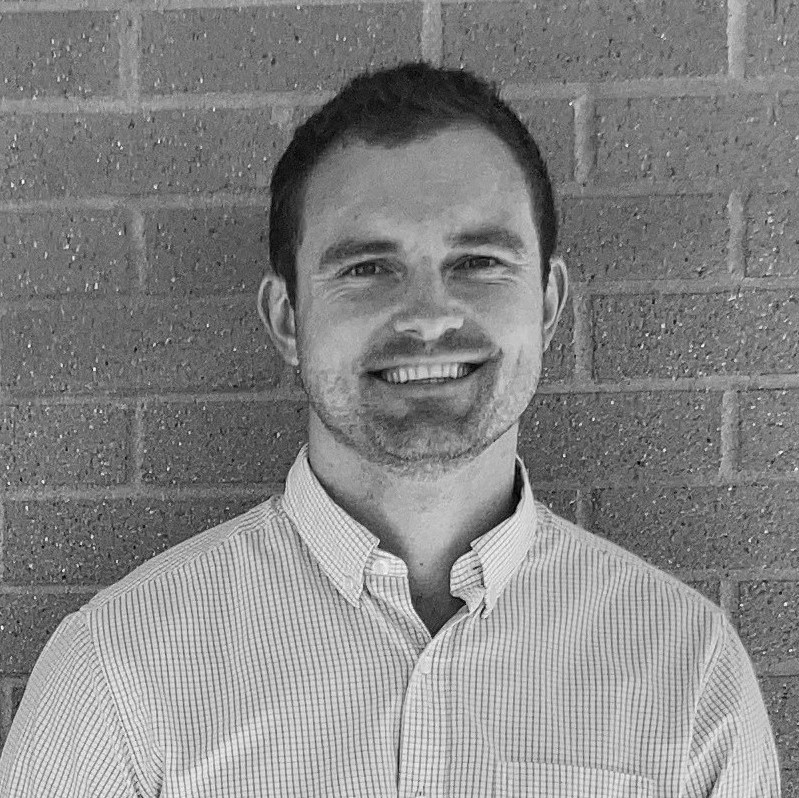
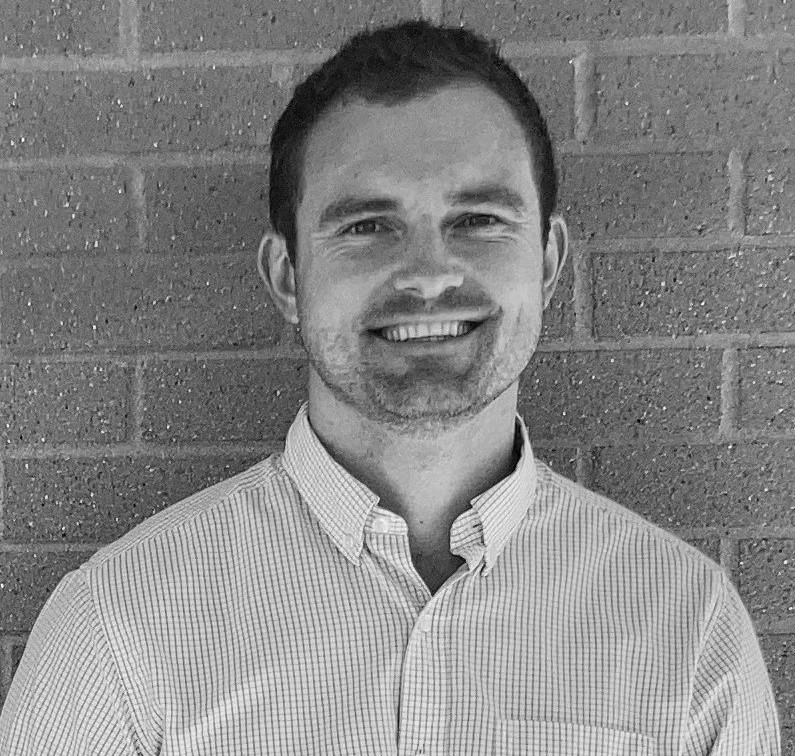
edits for linkedin thumbnail

diff --git a/src/Components/NavigationBarMobile.js b/src/Components/NavigationBarMobile.js
@@ -72,12 +72,14 @@ export default function ButtonAppBar() {
     <div className={classes.root}>
       <AppBar position="fixed" className={classes.appBar}>
         <Toolbar>
+        <a href="#Home" className={classes.navLink}>
         <Avatar
                 alt="Avatar"
                 src="/images/avatar.jpg"
                 className={classes.avatar}
               />
-        {["Home", "About", "Skills", "Projects"].map((text) => (
+        </a>
+        {["About", "Education", "Skills", "Projects"].map((text) => (
           <a href={"#" + text} className={classes.navLink}>
             <Button className={classes.listItem} key={text}>
               <ListItemText primary={text} className={classes.listItemText} />

diff --git a/public/index.html b/public/index.html
@@ -4,9 +4,9 @@
     <meta charset="utf-8" />
     <meta name="viewport" content="width=device-width, initial-scale=1" />
     <meta name="theme-color" content="#000000" />
-    <meta
-      name="description"
-    />
+<meta name="title" property="og:title" content="My Portfolio" />
+<meta property="og:type" content="_" />
+<meta name="image" property="og:image" content="https://live.staticflickr.com/65535/51285994553_4942c6d3b6_b.jpg" />
     <!--
       manifest.json provides metadata used when your web app is installed on a
       user's mobile device or desktop. See https://developers.google.com/web/fundamentals/web-app-manifest/

diff --git a/src/Components/NavigationBar.js b/src/Components/NavigationBar.js
@@ -80,7 +80,7 @@ export default function PermanentDrawerRight() {
                 className={classes.avatar}
               />
               <Typography variant="h6" className={classes.name}>Berkley Olmstead</Typography>
-              {["Home", "About", "Skills", "Projects"].map((text) => (
+              {["Home", "About", "Education", "Skills", "Projects"].map((text) => (
                   <a href={"#" + text} className={classes.navLink}>
                     <ListItem button className={classes.listItem} key={text}>
                       <ListItemText primary={text} />

diff --git a/src/Components/Education.js b/src/Components/Education.js
@@ -174,7 +174,7 @@ export default function About() {
 
   return (
     <Grid item xs={12} className={classes.aboutContainer} justify="center" >
-      <a id="About">
+      <a id="Education">
         <Container maxWidth="md" >
           <Grid container spacing={3} direction="row" alignItems="center" justify="center">
             <Grid item xs={12} className={classes.titleContainer}>
